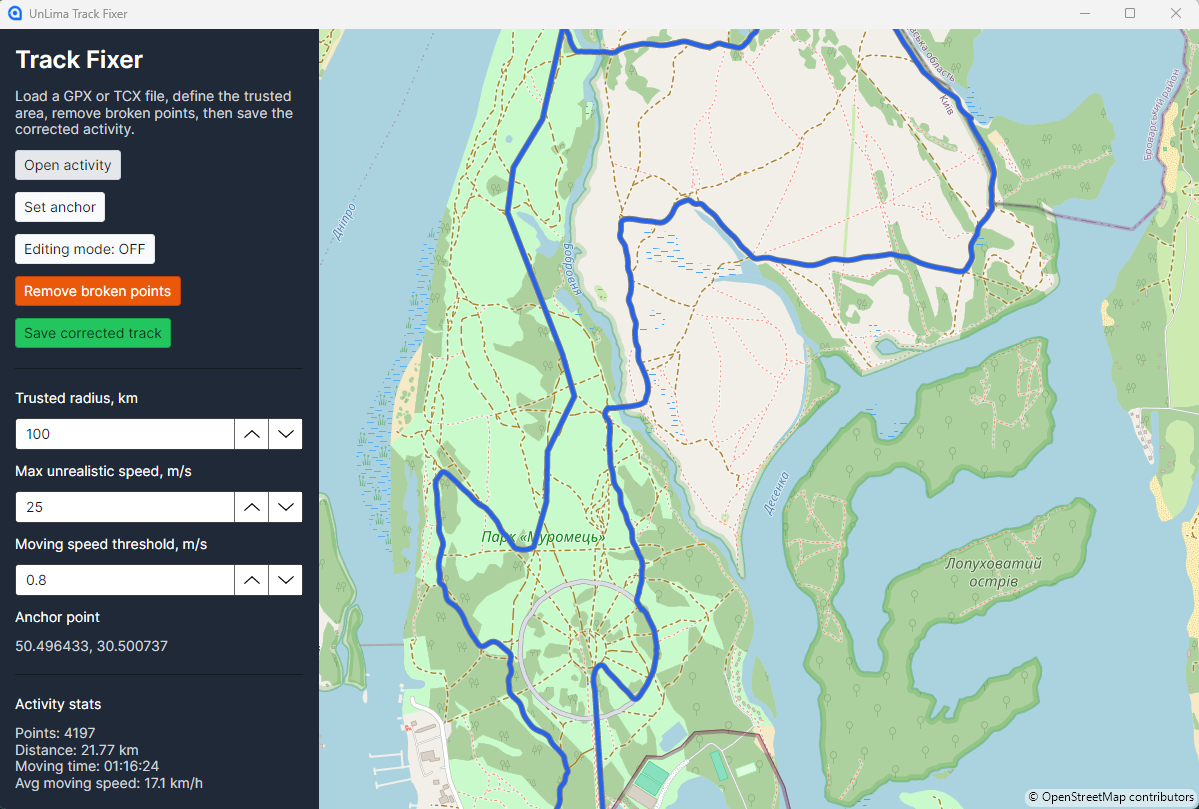
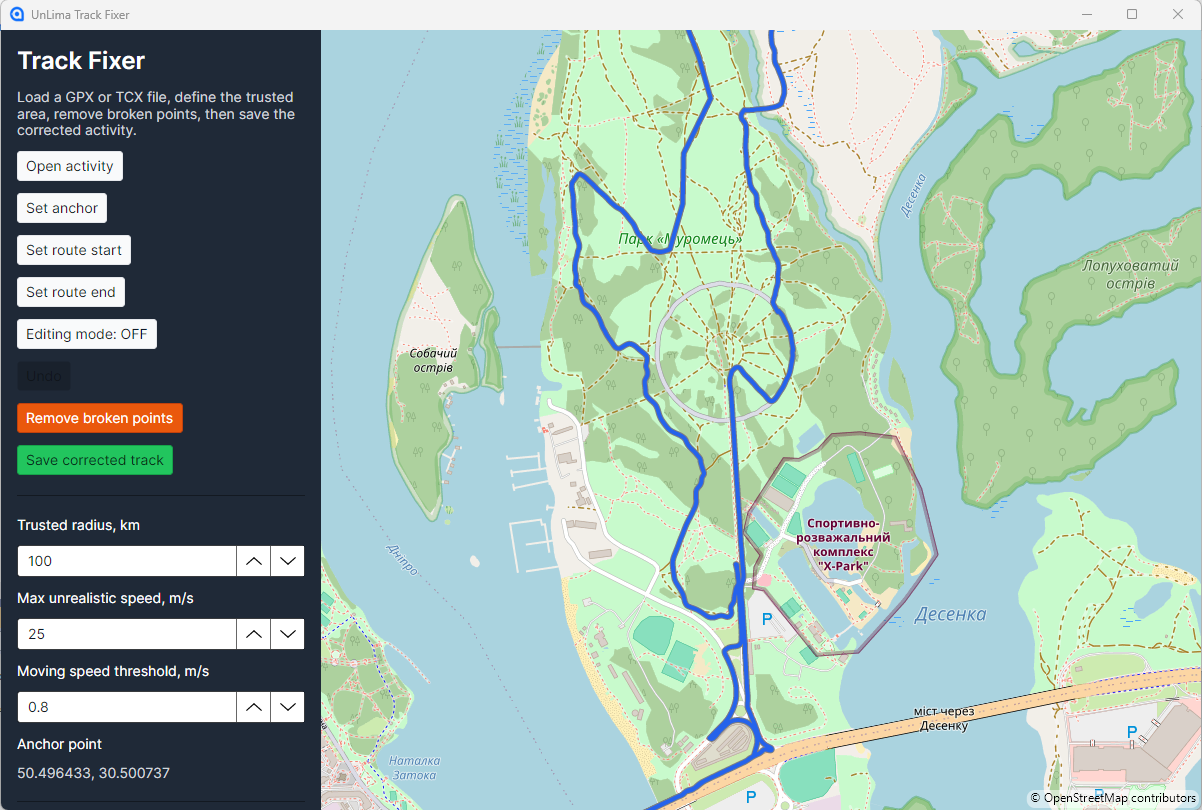
Update README with Set route start and Set route end documentation and updated screenshot

diff --git a/README.md b/README.md
@@ -14,9 +14,10 @@ There are no magic algoritms, program just detect waypoints outside of some trus
 - **Trusted Anchor & Radius**: Define a trusted geographic area using an anchor point and trusted radius (default 100 km) to automatically remove erroneous points outside the area.
 - **Unrealistic Speed & Jump Removal**: Detects and cleans up impossible location jumps and consecutive GPS anomalies.
 - **Manual Track Editing**:
-  - Drag existing track points to new locations.
-  - Insert new track points via segment midpoint handles.
-  - Real-time route segment redrawing during dragging.
+   - Drag existing track points to new locations.
+   - Insert new track points via segment midpoint handles.
+   - Set route start / Set route end: Reposition the start or end of your route by clicking on the map, updating coordinates while preserving original telemetry.
+   - Real-time route segment redrawing during dragging.
 - **Automatic Telemetry Interpolation**: Automatically interpolates timestamps and sensor data (altitude, heart rate, cadence, power, temperature) for inserted points while preserving original timestamps on existing points.
 - **Metric Recalculation**: Automatically recalculates point-to-point distances, total distance, moving time, average speed, and moving average speed.
 - **Point Inspection**: Right-click any track point in editing mode to inspect its complete telemetry data.
@@ -27,7 +28,7 @@ There are no magic algoritms, program just detect waypoints outside of some trus
 2. **Review on Map**: Inspect your route displayed on the OpenStreetMap interactive map.
 3. **Set Trusted Anchor & Radius**: Set or adjust the anchor point and trusted radius to filter out erroneous or spoofed points.
 4. **Remove Broken Points**: Click the remove broken points function to automatically delete points outside the trusted radius and impossible jumps.
-5. **Manual Adjustments**: Drag points or insert new points via segment midpoints to refine the route.
+5. **Manual Adjustments**: Drag points, insert new points via segment midpoints, or use **Set route start** / **Set route end** to adjust track boundaries.
 6. **Save Corrected Activity**: Save the corrected track back to your desired file format.
 
 ## Installation Note
